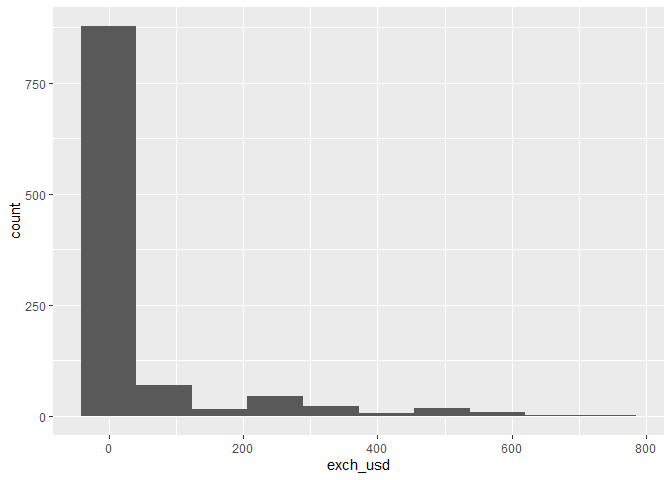
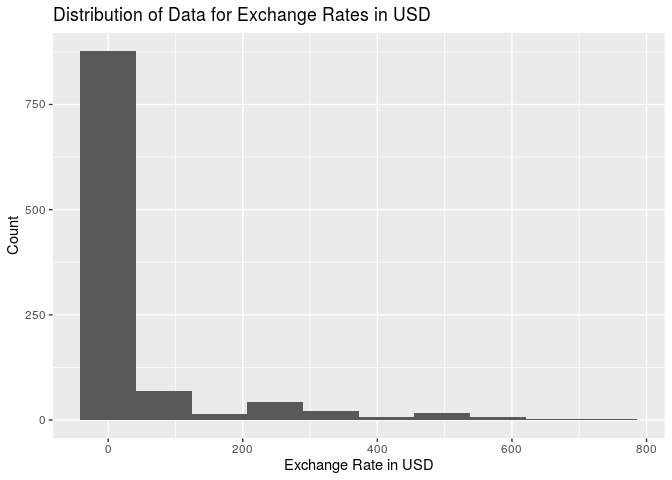
titles

diff --git a/proposal/proposal.md b/proposal/proposal.md
@@ -8,16 +8,16 @@ Six-Thirty-Eight
 library(tidyverse)
 ```
 
-    ## -- Attaching packages ---------------------------------------------------------------------------------------------------------------------------------- tidyverse 1.2.1 --
+    ## ── Attaching packages ─────────────────────────────── tidyverse 1.2.1 ──
 
-    ## v ggplot2 3.2.1     v purrr   0.3.3
-    ## v tibble  2.1.3     v dplyr   0.8.3
-    ## v tidyr   1.0.0     v stringr 1.4.0
-    ## v readr   1.3.1     v forcats 0.4.0
+    ## ✔ ggplot2 3.2.1     ✔ purrr   0.3.2
+    ## ✔ tibble  2.1.3     ✔ dplyr   0.8.3
+    ## ✔ tidyr   1.0.0     ✔ stringr 1.4.0
+    ## ✔ readr   1.3.1     ✔ forcats 0.4.0
 
-    ## -- Conflicts ------------------------------------------------------------------------------------------------------------------------------------- tidyverse_conflicts() --
-    ## x dplyr::filter() masks stats::filter()
-    ## x dplyr::lag()    masks stats::lag()
+    ## ── Conflicts ────────────────────────────────── tidyverse_conflicts() ──
+    ## ✖ dplyr::filter() masks stats::filter()
+    ## ✖ dplyr::lag()    masks stats::lag()
 
 ### Section 1. Introduction
 
@@ -152,8 +152,8 @@ ggplot(aes(x = banking_crisis)) +
 
 ![](proposal_files/figure-gfm/banking-crisis-1.png)<!-- -->
 
-We can create a plot of all the countries included in the African
-economic dataset and what years data is given for them.
+We can also visualize what years data for economies in African countries
+is given.
 
 ``` r
 ggplot(data = africa, mapping = aes(x = year)) +
@@ -277,7 +277,8 @@ variable looks like:
 
 ``` r
 ggplot(data = africa, mapping = aes(x = exch_usd)) +
-  geom_histogram(bins = 10)
+  geom_histogram(bins = 10) +
+  labs(x = "Exchange Rate in USD", y = "Count", title = "Distribution of Data for Exchange Rates in USD")
 ```
 
 ![](proposal_files/figure-gfm/exchange-rate-visualize-1.png)<!-- -->
@@ -291,7 +292,7 @@ We see that the median exchange rate against the US dollar is 0.8684 and
 the standard deviation is 111.47538. The distribution is right-skewed.
 
 Next, let’s analyze if exchange rate against the dollar and inflation
-rate correlate with economic crises.
+rate correlate with banking crises.
 
 ``` r
 africa %>%
@@ -301,7 +302,8 @@ ggplot(
     y = exch_usd,
     color = banking_crisis)) +
   geom_point() + 
-  xlim(-10, 100)
+  xlim(-10, 100) +
+  labs(x = "Annual CPI Inflation Rate", y = "Exchange Rate in USD", title = "Can Banking Crises be Predicted by Annual CPI Inflation Rate and Exchange Rate in USD?")
 ```
 
 ![](proposal_files/figure-gfm/inflation-crisis-relationship-1.png)<!-- -->
@@ -392,20 +394,20 @@ glimpse(africa)
 
     ## Observations: 1,059
     ## Variables: 14
-    ## $ case                            <dbl> 1, 1, 1, 1, 1, 1, 1, 1, 1, 1, ...
-    ## $ cc3                             <chr> "DZA", "DZA", "DZA", "DZA", "D...
-    ## $ country                         <chr> "Algeria", "Algeria", "Algeria...
-    ## $ year                            <dbl> 1870, 1871, 1872, 1873, 1874, ...
-    ## $ systemic_crisis                 <dbl> 1, 0, 0, 0, 0, 0, 0, 0, 0, 0, ...
-    ## $ exch_usd                        <dbl> 0.052264, 0.052798, 0.052274, ...
-    ## $ domestic_debt_in_default        <dbl> 0, 0, 0, 0, 0, 0, 0, 0, 0, 0, ...
-    ## $ sovereign_external_debt_default <dbl> 0, 0, 0, 0, 0, 0, 0, 0, 0, 0, ...
-    ## $ gdp_weighted_default            <dbl> 0, 0, 0, 0, 0, 0, 0, 0, 0, 0, ...
-    ## $ inflation_annual_cpi            <dbl> 3.441456, 14.149140, -3.718593...
-    ## $ independence                    <dbl> 0, 0, 0, 0, 0, 0, 0, 0, 0, 0, ...
-    ## $ currency_crises                 <dbl> 0, 0, 0, 0, 0, 0, 0, 0, 0, 0, ...
-    ## $ inflation_crises                <dbl> 0, 0, 0, 0, 0, 0, 0, 1, 0, 0, ...
-    ## $ banking_crisis                  <chr> "crisis", "no_crisis", "no_cri...
+    ## $ case                            <dbl> 1, 1, 1, 1, 1, 1, 1, 1, 1, 1, 1,…
+    ## $ cc3                             <chr> "DZA", "DZA", "DZA", "DZA", "DZA…
+    ## $ country                         <chr> "Algeria", "Algeria", "Algeria",…
+    ## $ year                            <dbl> 1870, 1871, 1872, 1873, 1874, 18…
+    ## $ systemic_crisis                 <dbl> 1, 0, 0, 0, 0, 0, 0, 0, 0, 0, 0,…
+    ## $ exch_usd                        <dbl> 0.052264, 0.052798, 0.052274, 0.…
+    ## $ domestic_debt_in_default        <dbl> 0, 0, 0, 0, 0, 0, 0, 0, 0, 0, 0,…
+    ## $ sovereign_external_debt_default <dbl> 0, 0, 0, 0, 0, 0, 0, 0, 0, 0, 0,…
+    ## $ gdp_weighted_default            <dbl> 0, 0, 0, 0, 0, 0, 0, 0, 0, 0, 0,…
+    ## $ inflation_annual_cpi            <dbl> 3.441456, 14.149140, -3.718593, …
+    ## $ independence                    <dbl> 0, 0, 0, 0, 0, 0, 0, 0, 0, 0, 0,…
+    ## $ currency_crises                 <dbl> 0, 0, 0, 0, 0, 0, 0, 0, 0, 0, 0,…
+    ## $ inflation_crises                <dbl> 0, 0, 0, 0, 0, 0, 0, 1, 0, 0, 0,…
+    ## $ banking_crisis                  <chr> "crisis", "no_crisis", "no_crisi…
 
 ``` r
 glimpse(global)
@@ -413,32 +415,32 @@ glimpse(global)
 
     ## Observations: 15,191
     ## Variables: 26
-    ## $ Case                                                                                                                                                                                                         <dbl> ...
-    ## $ CC3                                                                                                                                                                                                          <chr> ...
-    ## $ Country                                                                                                                                                                                                      <chr> ...
-    ## $ Year                                                                                                                                                                                                         <dbl> ...
-    ## $ `Banking Crisis`                                                                                                                                                                                             <chr> ...
-    ## $ Banking_Crisis_Notes                                                                                                                                                                                         <chr> ...
-    ## $ `Systemic Crisis`                                                                                                                                                                                            <chr> ...
-    ## $ `Gold Standard`                                                                                                                                                                                              <chr> ...
-    ## $ exch_usd                                                                                                                                                                                                     <dbl> ...
-    ## $ exch_usd_alt1                                                                                                                                                                                                <dbl> ...
-    ## $ exch_usd_alt2                                                                                                                                                                                                <dbl> ...
-    ## $ exch_usd_alt3                                                                                                                                                                                                <dbl> ...
-    ## $ conversion_notes                                                                                                                                                                                             <chr> ...
-    ## $ `national currency`                                                                                                                                                                                          <chr> ...
-    ## $ `exch_primary source code`                                                                                                                                                                                   <chr> ...
-    ## $ exch_sources                                                                                                                                                                                                 <chr> ...
-    ## $ Domestic_Debt_In_Default                                                                                                                                                                                     <chr> ...
-    ## $ `Domestic_Debt_ Notes/Sources`                                                                                                                                                                               <chr> ...
-    ## $ `SOVEREIGN EXTERNAL DEBT 1: DEFAULT and RESTRUCTURINGS, 1800-2012--Does not include defaults on WWI debt to United States and United Kingdom and post-1975 defaults on Official External Creditors`          <chr> ...
-    ## $ `SOVEREIGN EXTERNAL DEBT 2: DEFAULT and RESTRUCTURINGS, 1800-2012--Does not include defaults on WWI debt to United States and United Kingdom but includes post-1975 defaults on Official External Creditors` <dbl> ...
-    ## $ Defaults_External_Notes                                                                                                                                                                                      <chr> ...
-    ## $ GDP_Weighted_default                                                                                                                                                                                         <chr> ...
-    ## $ `Inflation, Annual percentages of average consumer prices`                                                                                                                                                   <chr> ...
-    ## $ Independence                                                                                                                                                                                                 <chr> ...
-    ## $ `Currency Crises`                                                                                                                                                                                            <chr> ...
-    ## $ `Inflation Crises`                                                                                                                                                                                           <chr> ...
+    ## $ Case                                                                                                                                                                                                         <dbl> …
+    ## $ CC3                                                                                                                                                                                                          <chr> …
+    ## $ Country                                                                                                                                                                                                      <chr> …
+    ## $ Year                                                                                                                                                                                                         <dbl> …
+    ## $ `Banking Crisis`                                                                                                                                                                                             <chr> …
+    ## $ Banking_Crisis_Notes                                                                                                                                                                                         <chr> …
+    ## $ `Systemic Crisis`                                                                                                                                                                                            <chr> …
+    ## $ `Gold Standard`                                                                                                                                                                                              <chr> …
+    ## $ exch_usd                                                                                                                                                                                                     <dbl> …
+    ## $ exch_usd_alt1                                                                                                                                                                                                <dbl> …
+    ## $ exch_usd_alt2                                                                                                                                                                                                <dbl> …
+    ## $ exch_usd_alt3                                                                                                                                                                                                <dbl> …
+    ## $ conversion_notes                                                                                                                                                                                             <chr> …
+    ## $ `national currency`                                                                                                                                                                                          <chr> …
+    ## $ `exch_primary source code`                                                                                                                                                                                   <chr> …
+    ## $ exch_sources                                                                                                                                                                                                 <chr> …
+    ## $ Domestic_Debt_In_Default                                                                                                                                                                                     <chr> …
+    ## $ `Domestic_Debt_ Notes/Sources`                                                                                                                                                                               <chr> …
+    ## $ `SOVEREIGN EXTERNAL DEBT 1: DEFAULT and RESTRUCTURINGS, 1800-2012--Does not include defaults on WWI debt to United States and United Kingdom and post-1975 defaults on Official External Creditors`          <chr> …
+    ## $ `SOVEREIGN EXTERNAL DEBT 2: DEFAULT and RESTRUCTURINGS, 1800-2012--Does not include defaults on WWI debt to United States and United Kingdom but includes post-1975 defaults on Official External Creditors` <dbl> …
+    ## $ Defaults_External_Notes                                                                                                                                                                                      <chr> …
+    ## $ GDP_Weighted_default                                                                                                                                                                                         <chr> …
+    ## $ `Inflation, Annual percentages of average consumer prices`                                                                                                                                                   <chr> …
+    ## $ Independence                                                                                                                                                                                                 <chr> …
+    ## $ `Currency Crises`                                                                                                                                                                                            <chr> …
+    ## $ `Inflation Crises`                                                                                                                                                                                           <chr> …
 
 ``` r
 glimpse(gdps)
@@ -446,12 +448,12 @@ glimpse(gdps)
 
     ## Observations: 15,576
     ## Variables: 6
-    ## $ country          <chr> "Aruba", "Aruba", "Aruba", "Aruba", "Aruba", ...
-    ## $ cc3              <chr> "ABW", "ABW", "ABW", "ABW", "ABW", "ABW", "AB...
-    ## $ `Indicator Name` <chr> "GDP (current US$)", "GDP (current US$)", "GD...
-    ## $ `Indicator Code` <chr> "NY.GDP.MKTP.CD", "NY.GDP.MKTP.CD", "NY.GDP.M...
-    ## $ year             <chr> "1960", "1961", "1962", "1963", "1964", "1965...
-    ## $ gdp              <dbl> NA, NA, NA, NA, NA, NA, NA, NA, NA, NA, NA, N...
+    ## $ country          <chr> "Aruba", "Aruba", "Aruba", "Aruba", "Aruba", "A…
+    ## $ cc3              <chr> "ABW", "ABW", "ABW", "ABW", "ABW", "ABW", "ABW"…
+    ## $ `Indicator Name` <chr> "GDP (current US$)", "GDP (current US$)", "GDP …
+    ## $ `Indicator Code` <chr> "NY.GDP.MKTP.CD", "NY.GDP.MKTP.CD", "NY.GDP.MKT…
+    ## $ year             <chr> "1960", "1961", "1962", "1963", "1964", "1965",…
+    ## $ gdp              <dbl> NA, NA, NA, NA, NA, NA, NA, NA, NA, NA, NA, NA,…
 
 ``` r
 glimpse(african_gdps)
@@ -459,20 +461,20 @@ glimpse(african_gdps)
 
     ## Observations: 579
     ## Variables: 17
-    ## $ country                         <chr> "Algeria", "Algeria", "Algeria...
-    ## $ cc3                             <chr> "DZA", "DZA", "DZA", "DZA", "D...
-    ## $ year                            <chr> "1960", "1961", "1968", "1969"...
-    ## $ `Indicator Name`                <chr> "GDP (current US$)", "GDP (cur...
-    ## $ `Indicator Code`                <chr> "NY.GDP.MKTP.CD", "NY.GDP.MKTP...
-    ## $ gdp                             <dbl> 2723648552, 2434776646, 385211...
-    ## $ case                            <dbl> 1, 1, 1, 1, 1, 1, 1, 1, 1, 1, ...
-    ## $ systemic_crisis                 <dbl> 0, 0, 0, 0, 0, 0, 0, 0, 0, 0, ...
-    ## $ exch_usd                        <dbl> 4.93706, 4.93706, 4.93706, 4.9...
-    ## $ domestic_debt_in_default        <dbl> 0, 0, 0, 0, 0, 0, 0, 0, 0, 0, ...
-    ## $ sovereign_external_debt_default <dbl> 0, 0, 0, 0, 0, 0, 0, 0, 0, 0, ...
-    ## $ gdp_weighted_default            <dbl> 0, 0, 0, 0, 0, 0, 0, 0, 0, 0, ...
-    ## $ inflation_annual_cpi            <dbl> 5.384615, 2.919708, 6.599988, ...
-    ## $ independence                    <dbl> 0, 0, 1, 1, 1, 1, 1, 1, 1, 1, ...
-    ## $ currency_crises                 <dbl> 1, 0, 0, 0, 0, 0, 0, 0, 0, 0, ...
-    ## $ inflation_crises                <dbl> 0, 0, 0, 0, 0, 0, 0, 0, 0, 0, ...
-    ## $ banking_crisis                  <chr> "no_crisis", "no_crisis", "no_...
+    ## $ country                         <chr> "Algeria", "Algeria", "Algeria",…
+    ## $ cc3                             <chr> "DZA", "DZA", "DZA", "DZA", "DZA…
+    ## $ year                            <chr> "1960", "1961", "1968", "1969", …
+    ## $ `Indicator Name`                <chr> "GDP (current US$)", "GDP (curre…
+    ## $ `Indicator Code`                <chr> "NY.GDP.MKTP.CD", "NY.GDP.MKTP.C…
+    ## $ gdp                             <dbl> 2723648552, 2434776646, 38521158…
+    ## $ case                            <dbl> 1, 1, 1, 1, 1, 1, 1, 1, 1, 1, 1,…
+    ## $ systemic_crisis                 <dbl> 0, 0, 0, 0, 0, 0, 0, 0, 0, 0, 0,…
+    ## $ exch_usd                        <dbl> 4.93706, 4.93706, 4.93706, 4.937…
+    ## $ domestic_debt_in_default        <dbl> 0, 0, 0, 0, 0, 0, 0, 0, 0, 0, 0,…
+    ## $ sovereign_external_debt_default <dbl> 0, 0, 0, 0, 0, 0, 0, 0, 0, 0, 0,…
+    ## $ gdp_weighted_default            <dbl> 0, 0, 0, 0, 0, 0, 0, 0, 0, 0, 0,…
+    ## $ inflation_annual_cpi            <dbl> 5.384615, 2.919708, 6.599988, 2.…
+    ## $ independence                    <dbl> 0, 0, 1, 1, 1, 1, 1, 1, 1, 1, 1,…
+    ## $ currency_crises                 <dbl> 1, 0, 0, 0, 0, 0, 0, 0, 0, 0, 0,…
+    ## $ inflation_crises                <dbl> 0, 0, 0, 0, 0, 0, 0, 0, 0, 0, 0,…
+    ## $ banking_crisis                  <chr> "no_crisis", "no_crisis", "no_cr…
